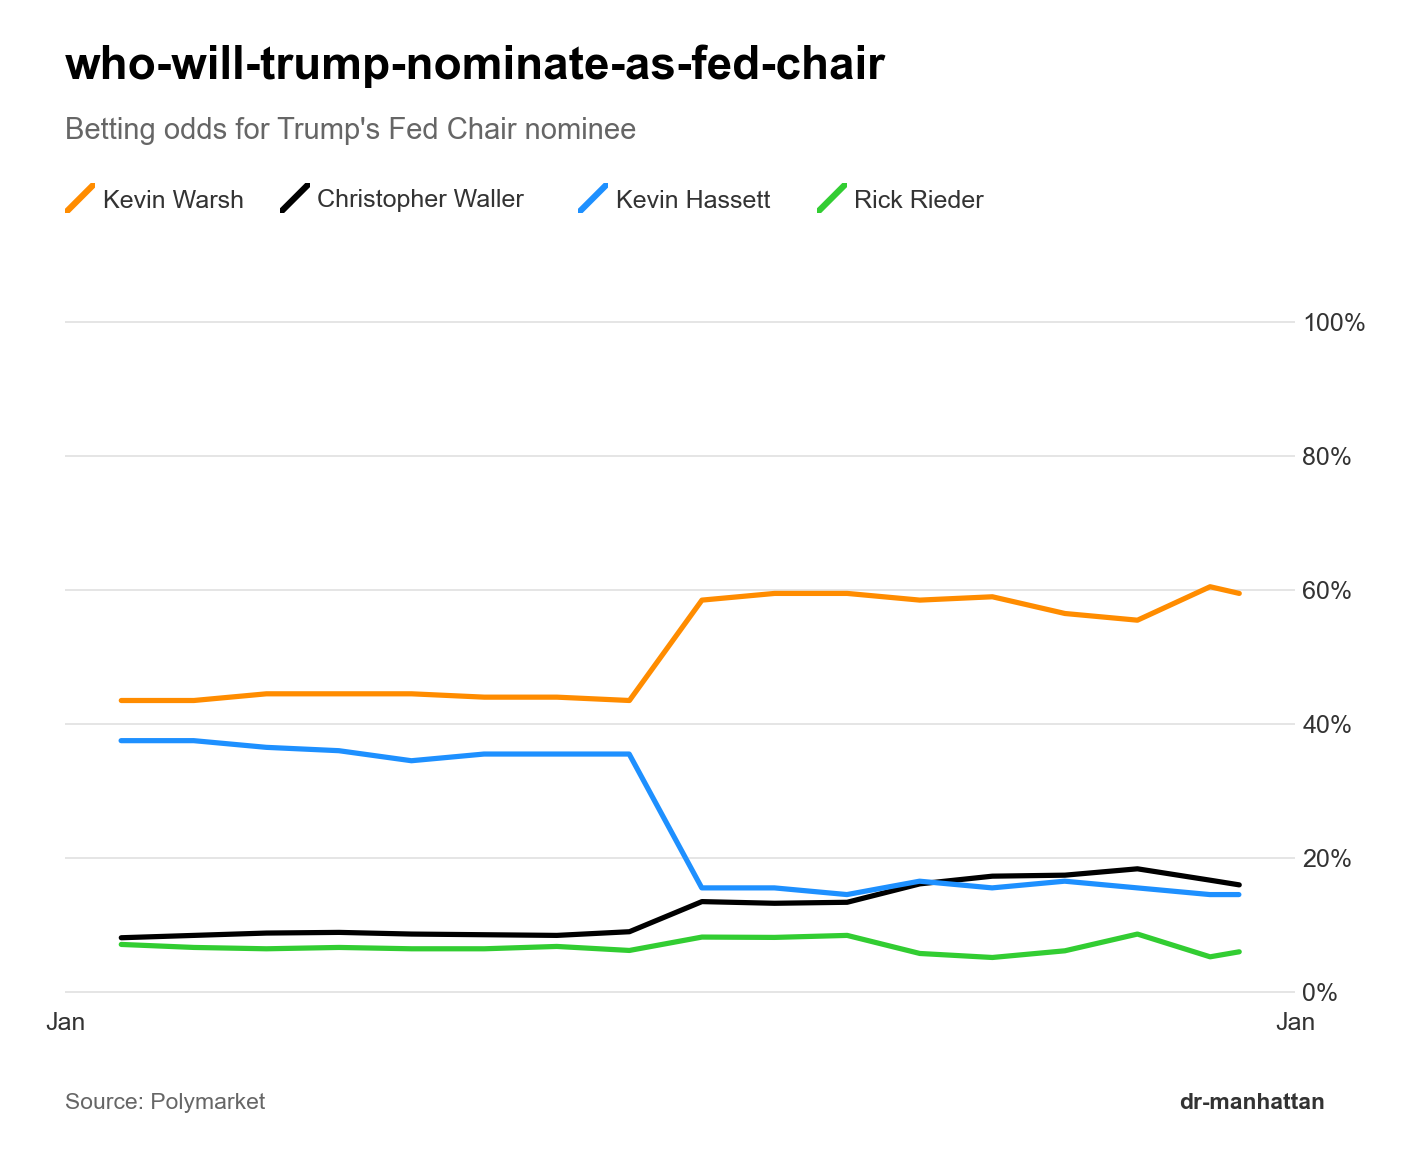
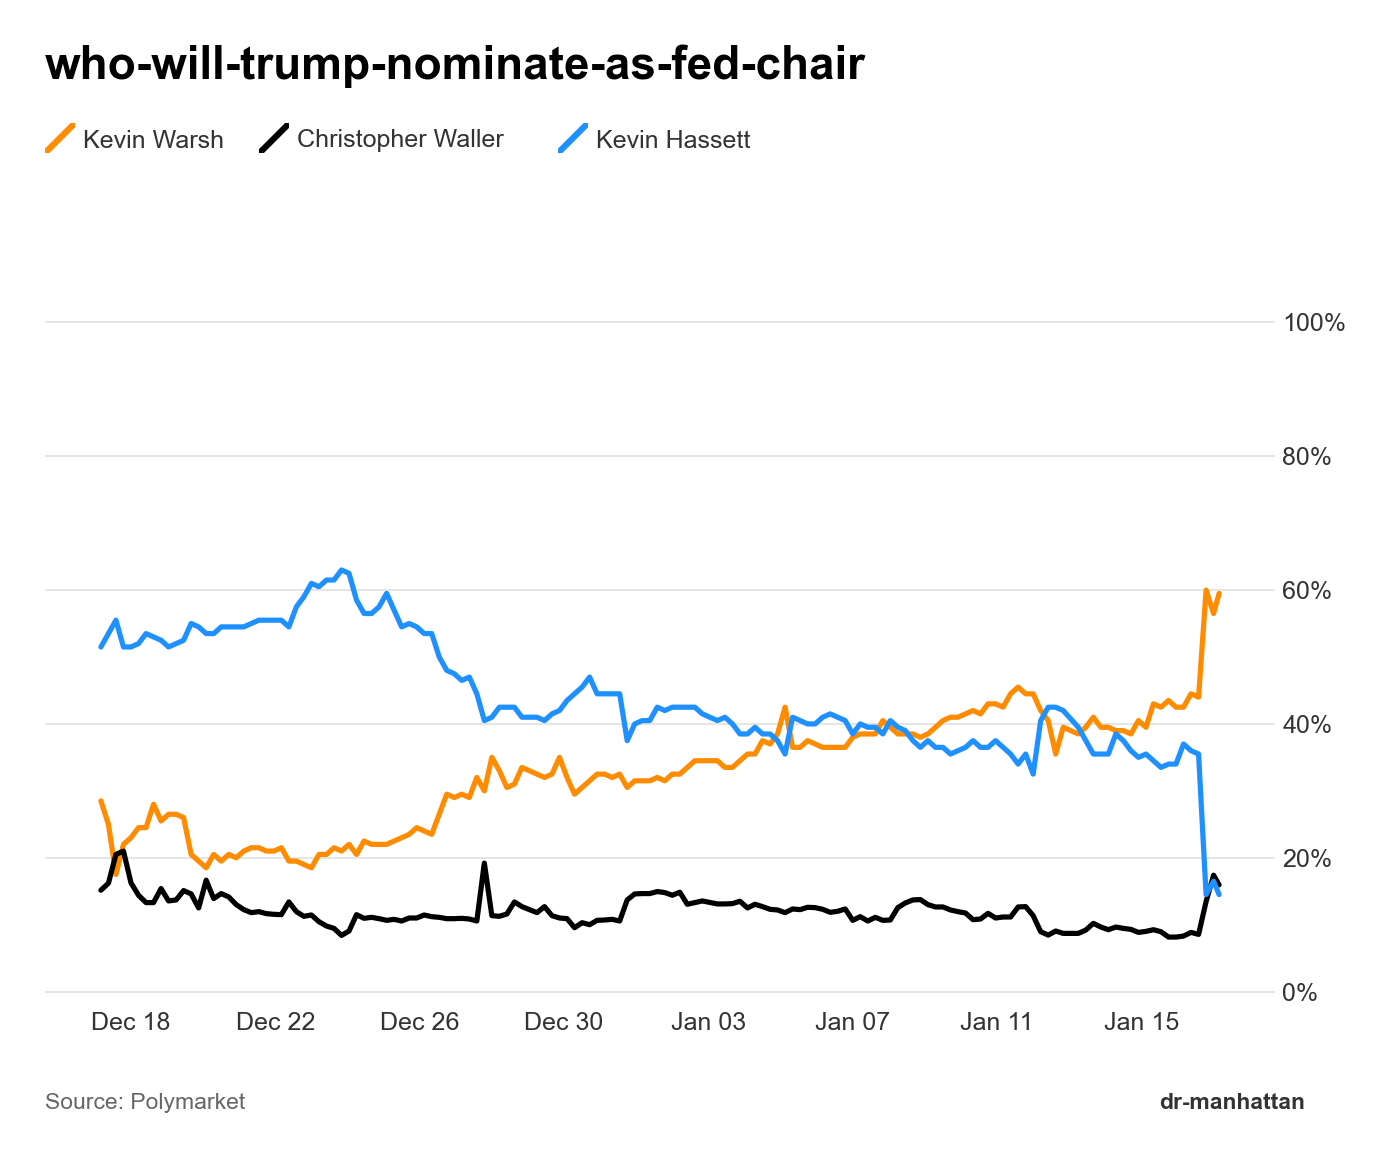
feat: improve time range defaults and x-axis formatting
- Change default interval to 'max' and fidelity to 300 for better historical data
- Add smart x-axis date formatting based on data range:
  - >365 days: "Jan '24" with 2-month intervals
  - >90 days: "Jan" with monthly ticks
  - >30 days: "Jan 01" with weekly ticks
  - <=30 days: "Jan 01" with daily ticks

diff --git a/examples/slug_to_chart/chart.py b/examples/slug_to_chart/chart.py
@@ -53,9 +53,22 @@ def generate_chart(
     ax.yaxis.set_label_position("right")
     ax.yaxis.set_major_formatter(plt.FuncFormatter(lambda x, _: f"{int(x)}%"))
 
-    # X-axis
-    ax.xaxis.set_major_formatter(mdates.DateFormatter("%b"))
-    ax.xaxis.set_major_locator(mdates.MonthLocator())
+    # X-axis - smart formatting based on data range
+    all_timestamps = pd.concat([df["timestamp"] for df in price_data.values()])
+    date_range = (all_timestamps.max() - all_timestamps.min()).days
+
+    if date_range > 365:
+        ax.xaxis.set_major_formatter(mdates.DateFormatter("%b '%y"))
+        ax.xaxis.set_major_locator(mdates.MonthLocator(interval=2))
+    elif date_range > 90:
+        ax.xaxis.set_major_formatter(mdates.DateFormatter("%b"))
+        ax.xaxis.set_major_locator(mdates.MonthLocator())
+    elif date_range > 30:
+        ax.xaxis.set_major_formatter(mdates.DateFormatter("%b %d"))
+        ax.xaxis.set_major_locator(mdates.WeekdayLocator(byweekday=mdates.MO))
+    else:
+        ax.xaxis.set_major_formatter(mdates.DateFormatter("%b %d"))
+        ax.xaxis.set_major_locator(mdates.DayLocator(interval=max(1, date_range // 7)))
 
     # Grid
     ax.grid(True, axis="y", linestyle="-", linewidth=0.8, color="#e0e0e0", zorder=0)

diff --git a/examples/slug_to_chart/__main__.py b/examples/slug_to_chart/__main__.py
@@ -29,11 +29,13 @@ def main():
         "--interval",
         "-i",
         type=str,
-        default="1d",
+        default="max",
         choices=["1m", "1h", "6h", "1d", "1w", "max"],
-        help="Price history interval (default: 1d)",
+        help="Price history interval (default: max)",
     )
-    parser.add_argument("--fidelity", "-f", type=int, default=90, help="Data points (default: 90)")
+    parser.add_argument(
+        "--fidelity", "-f", type=int, default=300, help="Data points (default: 300)"
+    )
     parser.add_argument("--subtitle", "-s", type=str, default=None, help="Chart subtitle")
     parser.add_argument("--top", "-t", type=int, default=None, help="Top N outcomes by price")
 

diff --git a/examples/slug_to_chart/fetcher.py b/examples/slug_to_chart/fetcher.py
@@ -11,8 +11,8 @@ INTERVAL_TYPE = Literal["1m", "1h", "6h", "1d", "1w", "max"]
 
 def fetch_event_price_history(
     slug: str,
-    interval: INTERVAL_TYPE = "1d",
-    fidelity: int = 90,
+    interval: INTERVAL_TYPE = "max",
+    fidelity: int = 300,
     top_n: int | None = None,
 ) -> tuple[str, dict[str, pd.DataFrame]]:
     """
